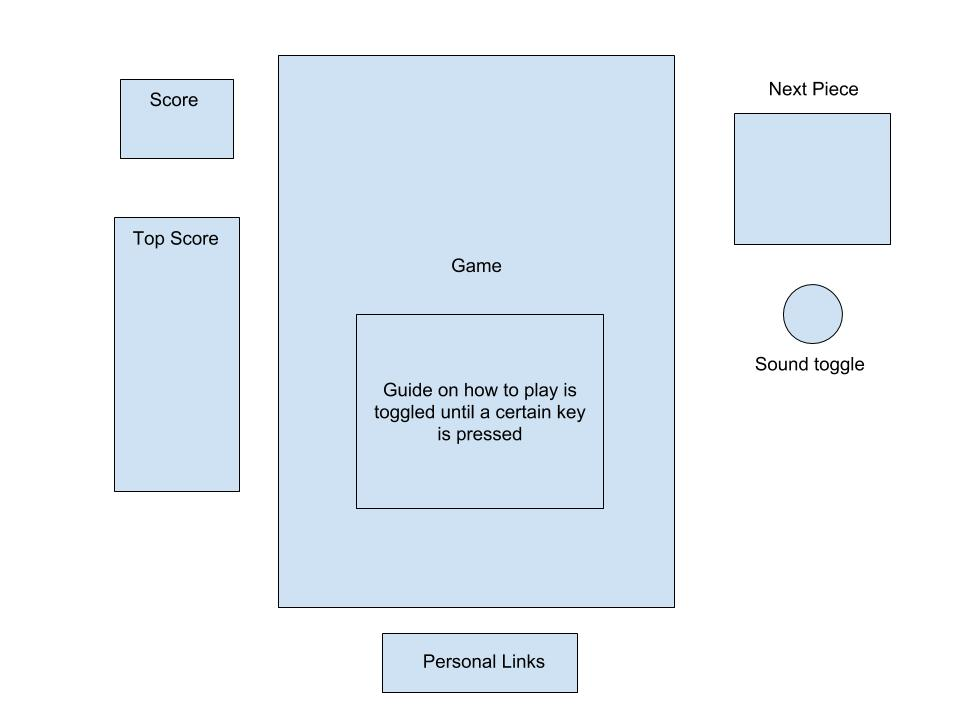
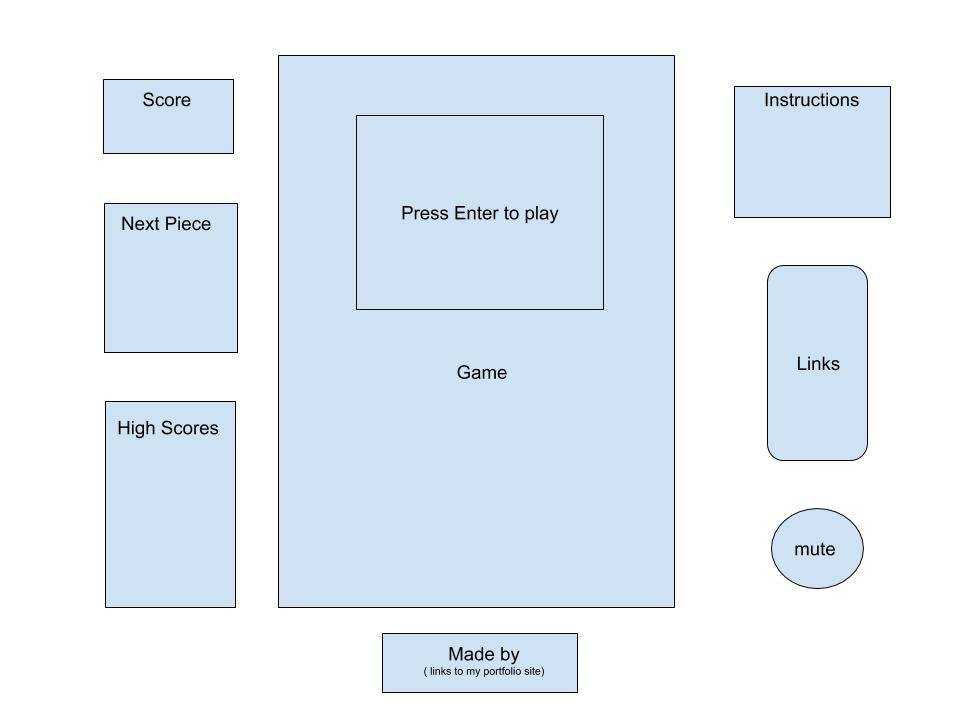
Update ReadMe. Upload new wireframes photo

diff --git a/README.md b/README.md
@@ -1,24 +1,46 @@
 # Tetris
-A tile-matching puzzle video game which I am sure everyone is familiar with. This game is
-implemented with vanilla JavaScript and HTML5 Canvas API played via web browser.
+A remake of the classic tile-matching puzzle video game which I am sure everyone is familiar with.
+This game is implemented with HTML5 Canvas API played via web browser.
 
 ## Functionality & MVP
+With this game, user's will be able to:
+
++ Start, pause, and reset the game (pause and reset still under construction).
++ Move pieces left and right.
++ Soft drop pieces.
++ Hard drop pieces. (under construction)
++ Toggle the background music
+
+## Controls
++ `enter` starts the game
 + `→` (right arrow key) moves block to the right
 + `←` (left arrow key) moves block to the left
-+ `s` (s key) rotates the block clockwise
-+ `d` (d key) rotates the block counter-clockwise
++ `s` (s key) rotates the block counter-clockwise
++ `d` (d key) rotates the block clockwise
 + `↓` (down arrow key) soft drops the tile
-+ `spacebar` hard drops the tile  
++ `spacebar` hard drops the tile
 + `p` pauses the game
 
+## Code Snippets
+Code logic implemented here
+
+### Board Creation
+Code logic implemented here
+
+### Piece Rotation
+Code logic implemented here
 
 ## Wireframes
-This game will consist of a single screen with the game board, top score & score boards on the left,
-a next piece box & sound toggle on the right, and finally, nav links to my personal site, Github,
-and LinkedIn at the bottom of the board.
+This game will consist of a single screen with the game board in the middle, next piece, score and
+top score panes on the left, an instructions, links, and mute button pane on the right. Finally, my
+portfolio page will be
 
-![Wireframes](https://github.com/rafgarciaa/Tetris/blob/master/Tetris%20Wireframes.jpg)
+![Wireframes](https://github.com/rafgarciaa/Tetris/tree/master/assets/tetris_wireframes.jpg)
 
 ## Architecture and Technologies
 + [Javascript](https://www.javascript.com/) for game logic.
-+ [Canvas](https://developer.mozilla.org/en-US/docs/Web/API/Canvas_API) for rendering.
++ [HTML5 Canvas](https://developer.mozilla.org/en-US/docs/Web/API/Canvas_API) for rendering.
+
+
+## Bonus Features
++ High Scores utilizing Google Firebase API
